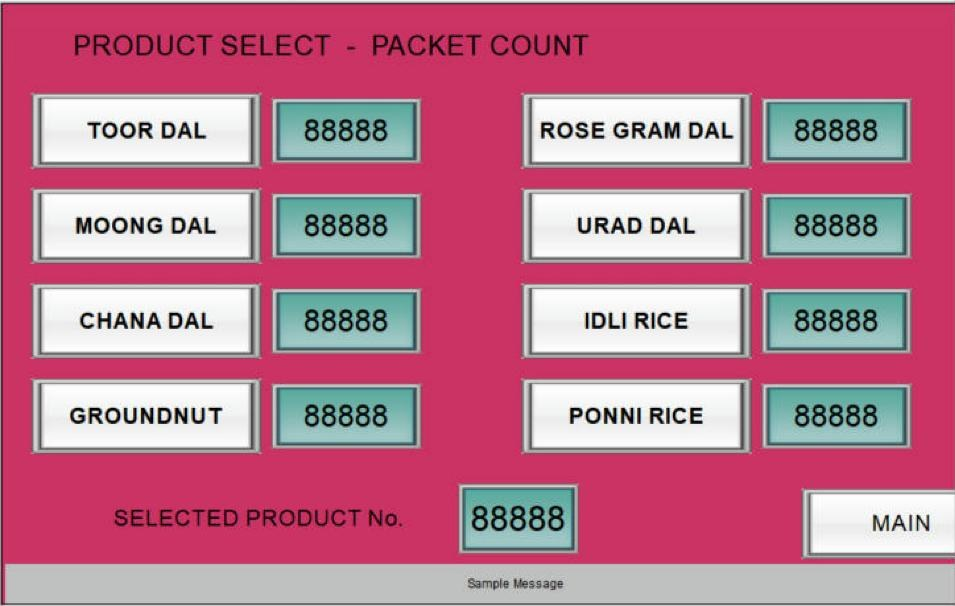
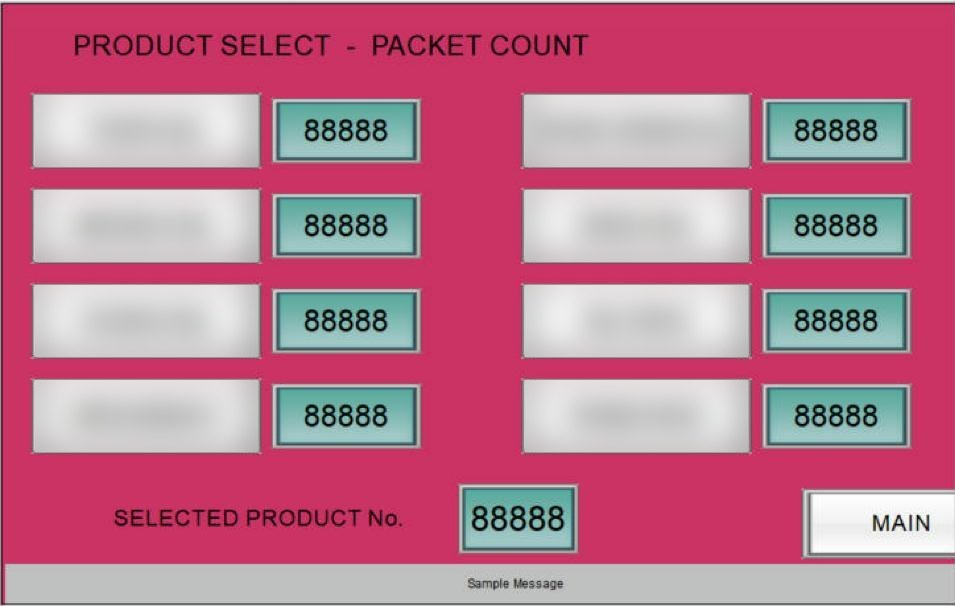
Add files via upload

diff --git a/index.html b/index.html
@@ -291,7 +291,7 @@ dashboard:{k:"IIoT · Own build",t:"Factory Production Dashboard",img:[["dashboa
  s:[["Protocol","MQTT + Modbus TCP"],["Broker","Mosquitto on plant PC"],["Language","Python"],["Update","Live, every second"]],
  r:["Designed and built the dashboard server that starts automatically when the PC is switched on","Connected machines over MQTT: the weigher HMI publishes live data every second to a Mosquitto broker","Read other machines over Modbus TCP","Built a separate page for each machine with live values","Configured the network and firewall so machines on the plant network can reach the broker"],
  o:["One screen to see machine status on the floor","Foundation for logging production data and spotting problems early"]},
-weigher:{k:"PLC + HMI · Samkoon · 2026",t:"3-Speed Semi-Auto Weigher (5 kg)",img:[["weigher-hmi-main.jpg","MAIN: live weight, target, last weight, good count, stage lamps (fast / medium / slow / seal / release) and tower light"],["weigher-hmi-settings.jpg","SETTINGS: target, fast and medium stop points, tolerance, empty level, seal / hold / release timers and AUTO TUNE"],["weigher-hmi-products.jpg","PRODUCTS: 8 product recipes (dal, groundnut, rice) with packet count per product"],["weigher-hmi-manual.jpg","MANUAL: test every output: vibrator speeds, sealing, heater, release, tower lamps"],["weigher-hmi-inputs.jpg","INPUTS: live status of level sensor, release limit, sealing foot switch and seal confirm sensor"]],
+weigher:{k:"PLC + HMI · Samkoon · 2026",t:"3-Speed Semi-Auto Weigher (5 kg)",img:[["weigher-hmi-main.jpg","MAIN: live weight, target, last weight, good count, stage lamps (fast / medium / slow / seal / release) and tower light"],["weigher-hmi-settings.jpg","SETTINGS: target, fast and medium stop points, tolerance, empty level, seal / hold / release timers and AUTO TUNE"],["weigher-hmi-products.jpg","PRODUCTS: 8 product recipes with packet count per product"],["weigher-hmi-manual.jpg","MANUAL: test every output: vibrator speeds, sealing, heater, release, tower lamps"],["weigher-hmi-inputs.jpg","INPUTS: live status of level sensor, release limit, sealing foot switch and seal confirm sensor"]],
  a:"A 5 kg semi-automatic weigher I designed and programmed end to end in 2026. It fills each bag fast, then slows down near the target and finishes with self-adjusting pulses, so it stays accurate across very different products.",
  s:[["Controller","Samkoon GT-070-32MT-8TC (PLC + 7\" HMI)"],["Load cell","TDA-08A controller over Modbus RTU"],["Feeding","Fast / Medium / Pulse"],["Recipes","8 products"],["Pulse","Adaptive, 0.3–0.8 s"],["Data","MQTT to plant dashboard"]],
  r:["Wrote the PLC logic in Samsoar and the HMI in SKTOOL 7.1","Read gross weight and zero commands from the TDA-08A load-cell controller over Modbus RTU","Fast stop at 50% of target, medium stop and pulse start set per product","Adaptive pulse: measures grams per pulse and aims the next pulse at 80% of the remaining weight","Auto overweight correction: if a fill goes over by more than 30 g, the medium stop moves down for the next fill","8 product recipes; special recipe for granules (ground nut) with no slow gate to avoid jamming","Cut cycle time: seal/hold wait 2.6 s → 0.5 s, auto-zero wait 1.5 s → 1.0 s","Communication watchdog and auto-zero step to stop overfills","Publishes live weight every second over MQTT to my factory dashboard"],
